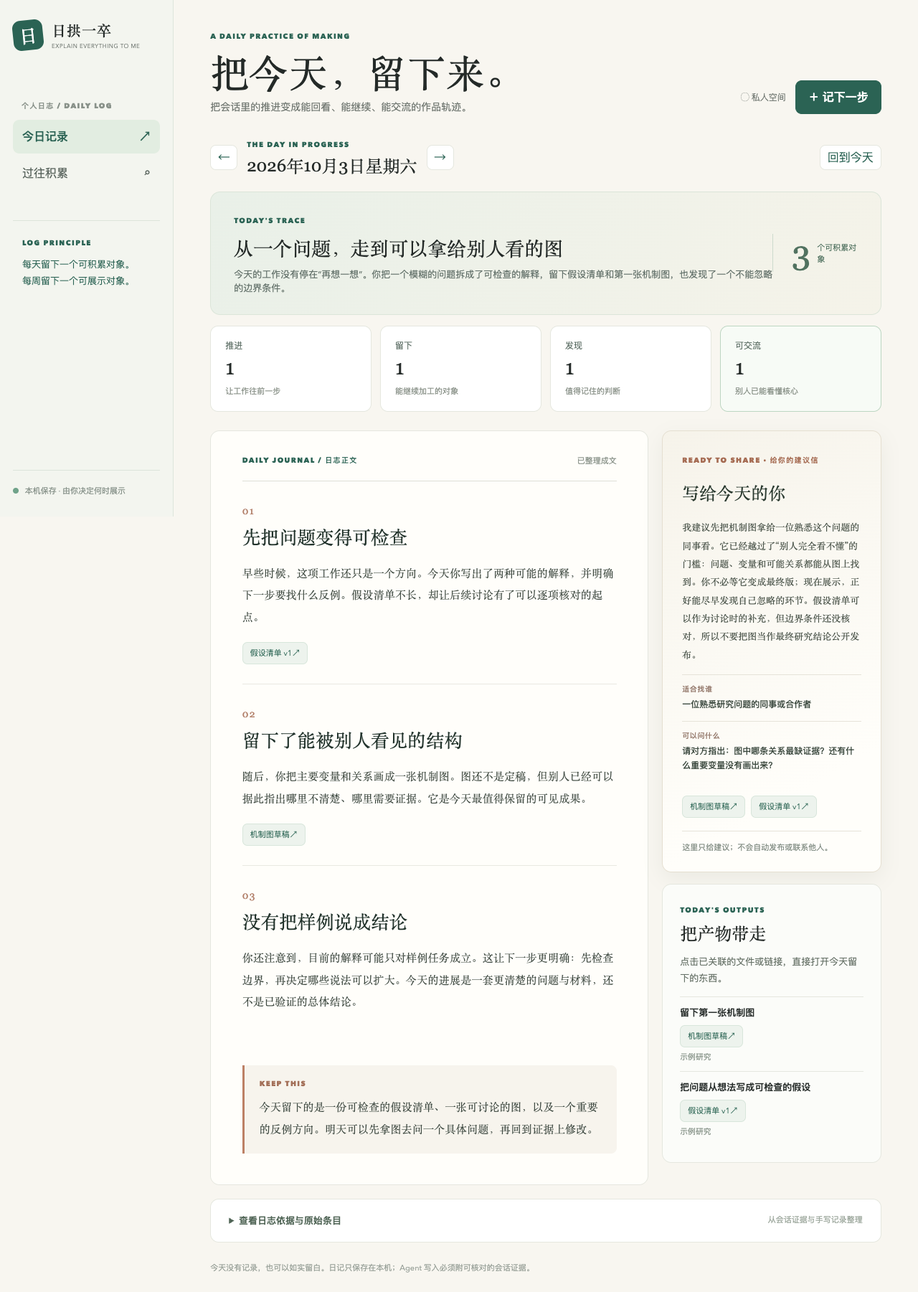
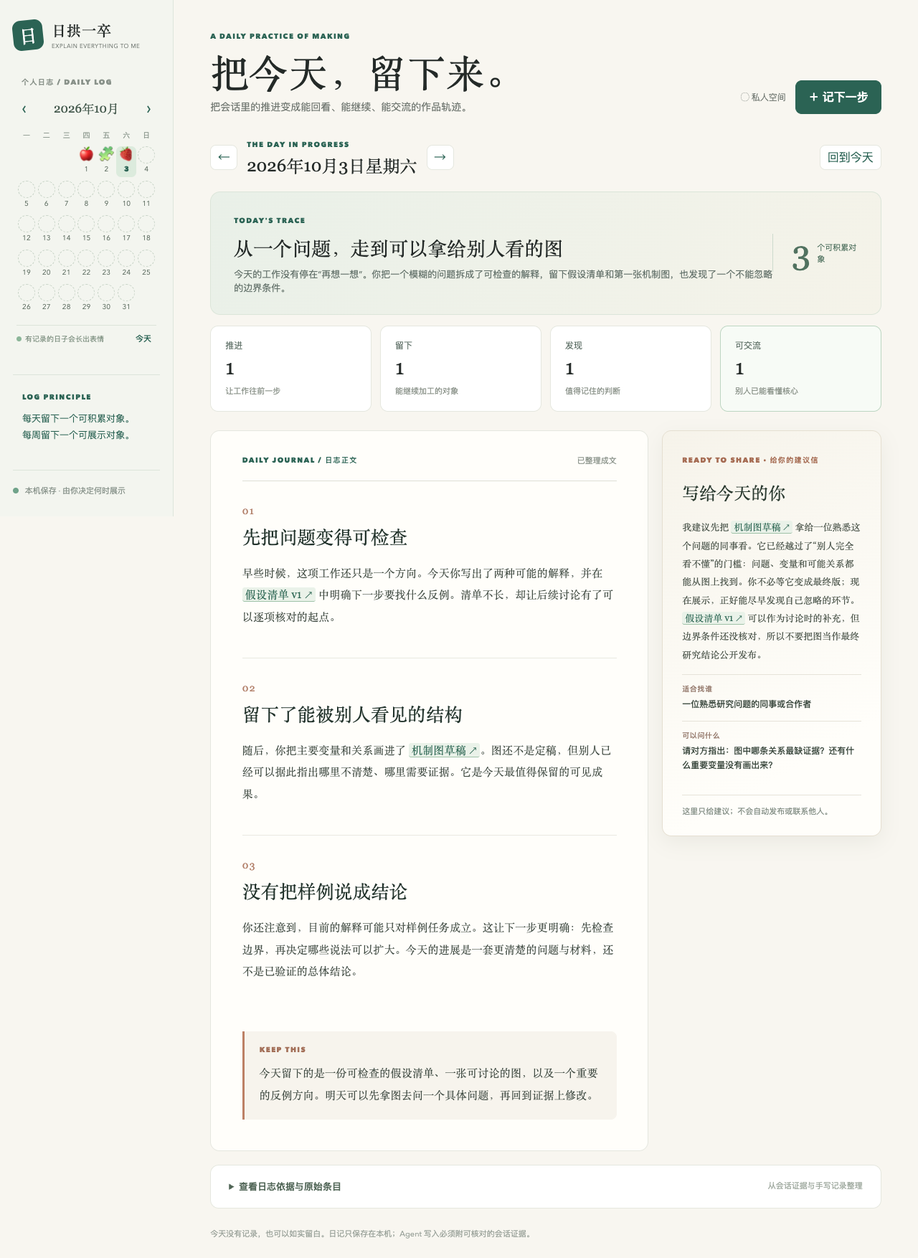
feat: add inline journal citations and emoji calendar

diff --git a/components/daily-journal/app.js b/components/daily-journal/app.js
@@ -1,7 +1,7 @@
 const $ = (selector) => document.querySelector(selector);
 const esc = (value) => String(value ?? "").replace(/[&<>"']/g, c => ({'&':'&amp;','<':'&lt;','>':'&gt;','"':'&quot;',"'":'&#39;'}[c]));
 const localDay = () => { const d=new Date(); return `${d.getFullYear()}-${String(d.getMonth()+1).padStart(2,'0')}-${String(d.getDate()).padStart(2,'0')}`; };
-const state = {data:null, date:localDay(), editing:null};
+const state = {data:null, date:localDay(), month:localDay().slice(0,7), editing:null};
 const labels = {progress:'推进',artifact:'留下',insight:'发现',share:'交流'};
 const readiness = {private:'还在加工',discussable:'可找人讨论',shared:'已经交流'};
 function toast(message){const node=$('#toast');node.textContent=message;node.style.display='block';clearTimeout(toast.timer);toast.timer=setTimeout(()=>node.style.display='none',3800);}
@@ -15,8 +15,38 @@ function artifactLink(entry, className='artifact-link') {
   const href=external?target:`/api/artifact/${encodeURIComponent(entry.id)}`;
   return `<a class="${className}" href="${esc(href)}" target="_blank" rel="noopener noreferrer">${label}<span aria-hidden="true"> ↗</span></a>`;
 }
-function paragraphs(value){return String(value||'').split(/\n\s*\n/).filter(Boolean).map(part=>`<p>${esc(part).replace(/\n/g,'<br>')}</p>`).join('');}
-function linkedEntries(ids, byId){return (ids||[]).map(id=>byId.get(id)).filter(Boolean).filter(entry=>entry.artifact).map(entry=>artifactLink(entry)).join('');}
+function inlineArtifact(entry){return artifactLink(entry,'inline-citation');}
+function paragraphs(value, byId, ids=[]){
+  const allowed=new Set(ids);
+  const cited=new Set([...String(value||'').matchAll(/\[\[artifact:([\w-]+)\]\]/g)].map(match=>match[1]));
+  const missing=ids.map(id=>byId?.get(id)).filter(entry=>entry?.artifact&&!cited.has(entry.id));
+  const parts=String(value||'').split(/\n\s*\n/).filter(Boolean);
+  return parts.map((part,index)=>{
+    let at=0, result='';
+    for(const match of part.matchAll(/\[\[artifact:([\w-]+)\]\]/g)){
+      result+=esc(part.slice(at,match.index)).replace(/\n/g,'<br>');
+      const entry=allowed.has(match[1])?byId?.get(match[1]):null;
+      result+=entry?.artifact?inlineArtifact(entry):esc(match[0]);
+      at=match.index+match[0].length;
+    }
+    result+=esc(part.slice(at)).replace(/\n/g,'<br>');
+    if(index===parts.length-1&&missing.length) result+=` <span class="legacy-citations">（参见 ${missing.map(inlineArtifact).join('、')}）</span>`;
+    return `<p>${result}</p>`;
+  }).join('');
+}
+const EMOJI=['🌱','🌿','🌻','🍀','🌸','🍎','🍋','🍓','🪻','🌼','🦋','🐝','⭐','✨','🪴','🍄','🌙','☀','🪺','🎈','🧩','📚','✏','🪁'];
+function dayEmoji(date){let hash=2166136261;for(const char of date){hash^=char.charCodeAt(0);hash=Math.imul(hash,16777619);}return EMOJI[(hash>>>0)%EMOJI.length];}
+function calendar(){
+  const [year,month]=state.month.split('-').map(Number), first=new Date(year,month-1,1), count=new Date(year,month,0).getDate();
+  const dates=new Set((state.data?.entries||[]).map(item=>item.date));
+  $('#calendar-month').textContent=first.toLocaleDateString('zh-CN',{year:'numeric',month:'long'});
+  const leading=(first.getDay()+6)%7;
+  $('#calendar-days').innerHTML=Array.from({length:leading},()=>'<span class="calendar-gap"></span>').join('')+Array.from({length:count},(_,index)=>{
+    const n=index+1, date=`${year}-${String(month).padStart(2,'0')}-${String(n).padStart(2,'0')}`, active=dates.has(date);
+    const classes=['calendar-day',active?'recorded':'empty-day',date===state.date?'selected':'',date===localDay()?'today':''].filter(Boolean).join(' ');
+    return `<button class="${classes}" data-date="${date}" aria-label="${date}${active?'，有记录':'，无记录'}" aria-pressed="${date===state.date}"><span class="day-icon" aria-hidden="true">${active?dayEmoji(date):''}</span><span class="day-num">${n}</span></button>`;
+  }).join('');
+}
 function render(){
   const d=new Date(`${state.date}T12:00:00`), items=entries(), byId=new Map(items.map(item=>[item.id,item]));
   const digest=state.data?.digests?.[state.date];
@@ -28,24 +58,24 @@ function render(){
   $('#coverage-text').textContent=digest?.lead||(items.length?'已有条目，但还没有经过原文核对的叙事摘要。':'写下一件小事，轨迹就从这里开始。');
   const stale=digest&&Object.entries(digest.entry_versions||{}).some(([id,version])=>byId.get(id)?.updated_at!==version);
   $('#digest-status').textContent=digest?(stale?'素材有变化 · 建议重写':'已整理成文'):'待撰写';
-  $('#digest-body').innerHTML=digest?`${(digest.sections||[]).map((section,index)=>`<section class="essay-section"><span class="section-number">${String(index+1).padStart(2,'0')}</span><h2>${esc(section.heading)}</h2>${paragraphs(section.body)}<div class="essay-links">${linkedEntries(section.entry_ids,byId)}</div></section>`).join('')}<div class="essay-closing"><span class="small-cap">KEEP THIS</span>${paragraphs(digest.closing)}</div>`:'<div class="empty-essay"><h2>这一天，还没有写成文章。</h2><p>条目只是材料。让 Agent 阅读当天会话、核对产物，再写出起因、转折、留下了什么和下一步。</p></div>';
+  $('#digest-body').innerHTML=digest?`${(digest.sections||[]).map((section,index)=>`<section class="essay-section"><span class="section-number">${String(index+1).padStart(2,'0')}</span><h2>${esc(section.heading)}</h2>${paragraphs(section.body,byId,section.entry_ids)}</section>`).join('')}<div class="essay-closing"><span class="small-cap">KEEP THIS</span>${paragraphs(digest.closing,byId)}</div>`:'<div class="empty-essay"><h2>这一天，还没有写成文章。</h2><p>条目只是材料。让 Agent 阅读当天会话、核对产物，再写出起因、转折、留下了什么和下一步。</p></div>';
   const letter=digest?.letter;
-  $('#letter-body').innerHTML=letter?`<h2>${esc(letter.salutation||'写给你的交流建议')}</h2><div class="letter-prose">${paragraphs(letter.body)}</div>${letter.recipient?`<div class="letter-detail"><span>适合找谁</span><strong>${esc(letter.recipient)}</strong></div>`:''}${letter.suggested_ask?`<div class="letter-detail"><span>可以问什么</span><strong>${esc(letter.suggested_ask)}</strong></div>`:''}<div class="letter-links">${linkedEntries(letter.entry_ids,byId)}</div><p class="letter-note">这里只给建议；不会自动发布或联系他人。</p>`:'<h2>先看清手里的东西</h2><p>当今日日志写好后，这里会给你一封具体的建议信：哪些成果值得展示，适合找谁，以及最好问什么。不会自动发送。</p>';
+  $('#letter-body').innerHTML=letter?`<h2>${esc(letter.salutation||'写给你的交流建议')}</h2><div class="letter-prose">${paragraphs(letter.body,byId,letter.entry_ids)}</div>${letter.recipient?`<div class="letter-detail"><span>适合找谁</span><strong>${esc(letter.recipient)}</strong></div>`:''}${letter.suggested_ask?`<div class="letter-detail"><span>可以问什么</span><strong>${esc(letter.suggested_ask)}</strong></div>`:''}<p class="letter-note">这里只给建议；不会自动发布或联系他人。</p>`:'<h2>先看清手里的东西</h2><p>当今日日志写好后，这里会给你一封具体的建议信：哪些成果值得展示，适合找谁，以及最好问什么。不会自动发送。</p>';
   $('#entry-list').innerHTML=items.length?items.map(x=>`<article class="entry"><span class="entry-kind ${esc(x.kind)}">${labels[x.kind]||'记录'}</span><div><h3><button data-id="${esc(x.id)}">${esc(x.title)}</button></h3>${x.detail?`<p>${esc(x.detail)}</p>`:''}<div class="entry-meta"><span>${esc(x.project||'未归类')}</span><span>${esc(readiness[x.readiness]||'')}</span>${x.artifact?artifactLink(x):''}${x.workrefs?.length?`<span>证据：${x.workrefs.map(esc).join(' · ')}</span>`:''}</div></div></article>`).join(''):'<div class="empty">还没有这一天的记录。</div>';
-  const artifacts=items.filter(x=>x.artifact);
-  $('#artifact-list').innerHTML=artifacts.length?artifacts.map(x=>`<div class="mini"><strong>${esc(x.title)}</strong><div>${artifactLink(x)}</div><small>${esc(x.project||'未归类')}</small></div>`).join(''):'<div class="empty">这一天还没有关联产物。</div>';
-  const dates=[...new Set((state.data?.entries||[]).map(x=>x.date))].sort().reverse();
-  $('#archive-days').innerHTML=dates.length?dates.map(date=>{const daily=state.data.entries.filter(x=>x.date===date);return `<button data-date="${esc(date)}"><strong>${esc(date)}</strong><span>${daily.length} 条记录 · ${daily.filter(x=>x.kind==='artifact').length} 个成果 · ${daily.filter(x=>x.readiness==='discussable'||x.readiness==='shared').length} 个可交流</span></button>`}).join(''):'<div class="empty">还没有过往记录。</div>';
+  calendar();
 }
 async function load(){try{const r=await fetch('/api/data',{cache:'no-store'});if(!r.ok)throw Error('读取日志失败');state.data=await r.json();render();}catch(e){toast(e.message);}}
 function edit(entry=null){state.editing=entry;$('#dialog-title').textContent=entry?'编辑这一步':'记下一步';const form=$('#entry-form');for(const field of ['date','kind','title','detail','project','artifact','artifact_target','readiness']) form.elements[field].value=entry?.[field]??({date:state.date,kind:'progress',readiness:'private'}[field]||'');$('#delete-entry').hidden=!entry;$('#editor').showModal();}
-async function mutate(payload){const r=await fetch('/api/action',{method:'POST',headers:{'Content-Type':'application/json'},body:JSON.stringify(payload)});const body=await r.json();if(!r.ok)throw Error(body.error||'保存失败');state.data=body;render();}
+async function mutate(payload){const r=await fetch('/api/action',{method:'POST',headers:{'Content-Type':'application/json'},body:JSON.stringify(payload)});const body=await r.json();if(!r.ok)throw Error(body.error||'保存失败');state.data=body;if(payload.action!=='delete'&&payload.date){state.date=payload.date;state.month=payload.date.slice(0,7);}render();}
 $('#add-entry').addEventListener('click',()=>edit());
 $('#entry-list').addEventListener('click',event=>{const b=event.target.closest('[data-id]');if(b)edit(state.data.entries.find(x=>x.id===b.dataset.id));});
 $('#entry-form').addEventListener('submit',async event=>{event.preventDefault();const values=Object.fromEntries(new FormData(event.target).entries());values.workrefs=state.editing?.workrefs||[];try{await mutate({action:state.editing?'update':'create',id:state.editing?.id,...values});$('#editor').close();toast('这一步已保存到本机');}catch(e){toast(e.message);}});
 $('#delete-entry').addEventListener('click',async()=>{if(!state.editing||!confirm(`删除“${state.editing.title}”？`))return;try{await mutate({action:'delete',id:state.editing.id});$('#editor').close();toast('记录已删除');}catch(e){toast(e.message);}});
 for(const id of ['close-dialog','cancel-entry']) $(`#${id}`).addEventListener('click',()=>$('#editor').close());
-function shift(days){const d=new Date(`${state.date}T12:00:00`);d.setDate(d.getDate()+days);state.date=`${d.getFullYear()}-${String(d.getMonth()+1).padStart(2,'0')}-${String(d.getDate()).padStart(2,'0')}`;render();}
-$('#archive-days').addEventListener('click',event=>{const button=event.target.closest('[data-date]');if(button){state.date=button.dataset.date;$('#archive-panel').hidden=true;render();}});
-$('#prev-day').addEventListener('click',()=>shift(-1));$('#next-day').addEventListener('click',()=>shift(1));$('#back-today').addEventListener('click',()=>{state.date=localDay();render()});$('#today-nav').addEventListener('click',()=>{state.date=localDay();render()});$('#archive-nav').addEventListener('click',()=>{$('#archive-panel').hidden=!$('#archive-panel').hidden;$('#archive-panel').scrollIntoView({behavior:'smooth',block:'start'});});
+function selectDay(date){state.date=date;state.month=date.slice(0,7);render();}
+function shift(days){const d=new Date(`${state.date}T12:00:00`);d.setDate(d.getDate()+days);selectDay(`${d.getFullYear()}-${String(d.getMonth()+1).padStart(2,'0')}-${String(d.getDate()).padStart(2,'0')}`);}
+function shiftMonth(delta){const [year,month]=state.month.split('-').map(Number), next=new Date(year,month-1+delta,1);state.month=`${next.getFullYear()}-${String(next.getMonth()+1).padStart(2,'0')}`;calendar();}
+$('#calendar-days').addEventListener('click',event=>{const button=event.target.closest('[data-date]');if(button)selectDay(button.dataset.date);});
+$('#calendar-prev').addEventListener('click',()=>shiftMonth(-1));$('#calendar-next').addEventListener('click',()=>shiftMonth(1));$('#calendar-today').addEventListener('click',()=>selectDay(localDay()));
+$('#prev-day').addEventListener('click',()=>shift(-1));$('#next-day').addEventListener('click',()=>shift(1));$('#back-today').addEventListener('click',()=>selectDay(localDay()));
 load();

diff --git a/components/daily-journal/index.html b/components/daily-journal/index.html
@@ -9,18 +9,17 @@
   <aside class="side">
     <div class="identity"><span class="mark">日</span><div><strong>日拱一卒</strong><small>EXPLAIN EVERYTHING TO ME</small></div></div>
     <div class="side-label">个人日志 / DAILY LOG</div>
-    <nav aria-label="日期"><button id="today-nav" class="nav active">今日记录 <span>↗</span></button><button id="archive-nav" class="nav">过往积累 <span>⌕</span></button></nav>
+    <section class="calendar" aria-label="日志日历"><div class="calendar-head"><button id="calendar-prev" aria-label="上个月">‹</button><strong id="calendar-month"></strong><button id="calendar-next" aria-label="下个月">›</button></div><div class="calendar-weekdays" aria-hidden="true"><span>一</span><span>二</span><span>三</span><span>四</span><span>五</span><span>六</span><span>日</span></div><div id="calendar-days" class="calendar-days"></div><div class="calendar-foot"><span><i class="calendar-legend"></i>有记录的日子会长出表情</span><button id="calendar-today">今天</button></div></section>
     <div class="side-note"><span class="small-cap">LOG PRINCIPLE</span><p>每天留下一个可积累对象。<br>每周留下一个可展示对象。</p></div>
     <div class="side-bottom"><span class="status-dot"></span> 本机保存 · 由你决定何时展示</div>
   </aside>
   <main>
     <header class="top"><div><span class="eyebrow">A DAILY PRACTICE OF MAKING</span><h1>把今天，留下来。</h1><p>把会话里的推进变成能回看、能继续、能交流的作品轨迹。</p></div><div class="top-actions"><span class="privacy">◌ 私人空间</span><button id="add-entry" class="primary">＋ 记下一步</button></div></header>
-    <section id="archive-panel" class="archive-panel" hidden><div class="section-head"><div><span class="small-cap">THE LONG ARC</span><h2>过往积累</h2></div><span>点击日期，回看留下的对象</span></div><div id="archive-days"></div></section>
     <section class="datebar"><div><button id="prev-day" aria-label="前一天">←</button><div><span class="small-cap">THE DAY IN PROGRESS</span><h2 id="date-title"></h2></div><button id="next-day" aria-label="后一天">→</button></div><button id="back-today">回到今天</button></section>
     <section class="headline" aria-label="当日概况"><div><span class="small-cap">TODAY'S TRACE</span><strong id="headline-text">今天还没有记录。</strong><p id="coverage-text">写下一件小事，轨迹就从这里开始。</p></div><div class="day-count"><b id="count">0</b><span>个可积累对象</span></div></section>
     <section class="metrics"><article><span>推进</span><strong id="count-progress">0</strong><small>让工作往前一步</small></article><article><span>留下</span><strong id="count-artifact">0</strong><small>能继续加工的对象</small></article><article><span>发现</span><strong id="count-insight">0</strong><small>值得记住的判断</small></article><article class="accent"><span>可交流</span><strong id="count-discussable">0</strong><small>别人已能看懂核心</small></article></section>
     <div class="layout"><article class="feed journal-article"><div class="article-kicker"><span class="small-cap">DAILY JOURNAL / 日志正文</span><span id="digest-status"></span></div><div id="digest-body"></div></article>
-    <aside class="reflection"><section class="reflection-card letter-card"><span class="small-cap">READY TO SHARE · 给你的建议信</span><div id="letter-body"></div></section><section class="reflection-card quiet"><span class="small-cap">TODAY'S OUTPUTS</span><h2>把产物带走</h2><p>点击已关联的文件或链接，直接打开今天留下的东西。</p><div id="artifact-list"></div></section></aside></div>
+    <aside class="reflection"><section class="reflection-card letter-card"><span class="small-cap">READY TO SHARE · 给你的建议信</span><div id="letter-body"></div></section></aside></div>
     <details class="source-drawer"><summary>查看日志依据与原始条目 <span id="source-note">从会话证据与手写记录整理</span></summary><div id="entry-list"></div></details>
     <footer>今天没有记录，也可以如实留白。日记只保存在本机；Agent 写入必须附可核对的会话证据。</footer>
   </main>

diff --git a/components/daily-journal/styles.css b/components/daily-journal/styles.css
@@ -38,3 +38,34 @@
 .source-drawer[open] summary{border-bottom:1px solid var(--line)}
 @media(max-width:620px){.journal-article{min-height:0;padding:24px 21px 29px}.essay-section{padding:25px 0}.essay-section p,.essay-closing p{font-size:14px}.source-drawer summary span{display:block;float:none;margin:5px 0 0}}
 @media(max-width:620px){.headline{display:block}.day-count{border-left:0;border-top:1px solid #ccdacd;margin-top:17px;padding:12px 0 0;display:flex;justify-content:flex-start;text-align:left}.day-count b{display:inline;line-height:1}.day-count span{white-space:nowrap}}
+
+.side .identity{margin-bottom:37px}
+.calendar{padding:0 5px;color:#43584c}
+.calendar-head{display:flex;align-items:center;justify-content:space-between;margin:3px 0 17px}
+.calendar-head strong{font-family:Georgia,"Noto Serif CJK SC",serif;font-size:17px;font-weight:500;white-space:nowrap}
+.calendar-head button,.calendar-foot button{border:0;background:transparent;color:var(--green);font-size:23px;line-height:1;padding:2px 7px;border-radius:7px}
+.calendar-head button:hover,.calendar-foot button:hover{background:#e2ede1}
+.calendar-weekdays,.calendar-days{display:grid;grid-template-columns:repeat(7,minmax(0,1fr));text-align:center}
+.calendar-weekdays{color:#8c988e;font-size:10px;padding:0 0 8px}
+.calendar-days{row-gap:5px}
+.calendar-day{position:relative;min-width:0;min-height:43px;border:0;background:transparent;color:#647367;display:flex;flex-direction:column;align-items:center;justify-content:flex-start;padding:0;border-radius:7px}
+.calendar-day:hover{background:#e6eee5}
+.calendar-day.selected{background:#dcebdd;color:#285d4c}
+.calendar-day .day-icon{width:24px;height:24px;border-radius:50%;display:grid;place-items:center;font-size:18px;line-height:1}
+.calendar-day.empty-day .day-icon{border:1.5px dashed #c7d3c6}
+.calendar-day.recorded .day-icon{animation:emoji-bloom .5s cubic-bezier(.2,1.5,.45,1) both}
+.calendar-day .day-num{font-size:10px;line-height:1.2;margin-top:2px}
+.calendar-day.today .day-num{font-weight:800;color:var(--green)}
+.calendar-day.today:not(.selected) .day-num{text-decoration:underline;text-underline-offset:2px}
+.calendar-foot{border-top:1px solid #dce4da;margin-top:14px;padding-top:11px;display:flex;align-items:center;justify-content:space-between;gap:5px}
+.calendar-foot span{font-size:10px;color:#788b7b;line-height:1.4}
+.calendar-legend{display:inline-block;width:7px;height:7px;border-radius:50%;background:#8cb699;margin-right:5px}
+.calendar-foot button{font-size:11px;font-weight:700;white-space:nowrap}
+@keyframes emoji-bloom{from{opacity:0;transform:scale(.2) rotate(-25deg)}to{opacity:1;transform:scale(1) rotate(0)}}
+.essay-section .inline-citation,.letter-prose .inline-citation{display:inline;text-decoration:none;background:#eaf2e9;color:#28634f;border:0;border-bottom:1px solid #9fc2a8;border-radius:3px;padding:1px 4px;white-space:normal;overflow-wrap:anywhere;font:inherit}
+.essay-section .inline-citation:hover,.letter-prose .inline-citation:hover{background:#d5e8d8;text-decoration:underline}
+.inline-citation span{font-family:Arial,sans-serif;font-size:.78em}
+.legacy-citations{color:#64776a}
+@media(max-width:1000px){.calendar{max-width:360px}}
+@media(max-width:620px){.side .identity{margin-bottom:15px}.side-label{display:block;padding:0 5px 10px}.calendar{max-width:none}.calendar-day{min-height:41px}.calendar-foot{margin-bottom:4px}}
+@media(prefers-reduced-motion:reduce){.calendar-day.recorded .day-icon{animation:none}}

diff --git a/components/daily-journal/journal.py b/components/daily-journal/journal.py
@@ -8,6 +8,7 @@ import fcntl
 import json
 import mimetypes
 import os
+import re
 import tempfile
 import uuid
 from datetime import date, datetime, timezone
@@ -184,6 +185,11 @@ def compose(data, payload):
             raise ValueError("Digest references must point to entries from this date")
         return list(dict.fromkeys(value))
 
+    def require_inline_artifacts(body, refs):
+        markers = set(re.findall(r"\[\[artifact:([\w-]+)\]\]", body))
+        if any(todays[ref].get("artifact") and ref not in markers for ref in refs):
+            raise ValueError("Artifact references must appear inside the prose")
+
     rendered = []
     referenced = set()
     for section in sections:
@@ -192,9 +198,11 @@ def compose(data, payload):
         refs = entry_ids(section.get("entry_ids", []))
         if not refs:
             raise ValueError("Each section needs at least one journal entry")
+        body = clean(section.get("body", ""), 4000)
+        require_inline_artifacts(body, refs)
         referenced.update(refs)
         rendered.append({"heading": clean(section.get("heading", ""), 140),
-                         "body": clean(section.get("body", ""), 4000), "entry_ids": refs})
+                         "body": body, "entry_ids": refs})
         if not rendered[-1]["heading"] or not rendered[-1]["body"]:
             raise ValueError("Digest heading and body are required")
     letter = payload.get("letter")
@@ -203,12 +211,14 @@ def compose(data, payload):
     letter_refs = entry_ids(letter.get("entry_ids", []))
     if not any(todays[ref].get("artifact") for ref in letter_refs):
         raise ValueError("Ready to Share must cite at least one artifact")
+    letter_body = clean(letter.get("body", ""), 3000)
+    require_inline_artifacts(letter_body, letter_refs)
     referenced.update(letter_refs)
     result = {"date": report_date, "title": clean(payload.get("title", ""), 180),
               "lead": clean(payload.get("lead", ""), 1500), "sections": rendered,
               "closing": clean(payload.get("closing", ""), 1500),
               "letter": {"salutation": clean(letter.get("salutation", ""), 120),
-                         "body": clean(letter.get("body", ""), 3000),
+                         "body": letter_body,
                          "recipient": clean(letter.get("recipient", ""), 240),
                          "suggested_ask": clean(letter.get("suggested_ask", ""), 700),
                          "entry_ids": letter_refs},

diff --git a/tests/test_daily_journal.py b/tests/test_daily_journal.py
@@ -69,15 +69,19 @@ class JournalTest(unittest.TestCase):
         self.assertEqual(item['updated_at'], initial_version)
         digest = {'date': '2026-10-03', 'title': 'A day with a visible result',
                   'lead': 'The diagram made the question discussable.',
-                  'sections': [{'heading': 'A first structure', 'body': 'The diagram connects the main ideas.',
+                  'sections': [{'heading': 'A first structure', 'body': f'The diagram [[artifact:{item["id"]}]] connects the main ideas.',
                                 'entry_ids': [item['id']]}],
                   'closing': 'Check one boundary next.',
-                  'letter': {'salutation': 'Dear researcher', 'body': 'Show the diagram to a colleague.',
+                  'letter': {'salutation': 'Dear researcher', 'body': f'Show [[artifact:{item["id"]}]] to a colleague.',
                              'recipient': 'A colleague', 'suggested_ask': 'What is missing?',
                              'entry_ids': [item['id']]}}
         result = journal.compose(data, digest)
         self.assertEqual(result['entry_versions'][item['id']], item['updated_at'])
         self.assertEqual(data['digests']['2026-10-03']['letter']['entry_ids'], [item['id']])
+        digest['sections'][0]['body'] = 'The diagram connects the main ideas.'
+        with self.assertRaisesRegex(ValueError, 'inside the prose'):
+            journal.compose(data, digest)
+        digest['sections'][0]['body'] = f'The diagram [[artifact:{item["id"]}]] connects the main ideas.'
         digest['sections'][0]['entry_ids'] = ['not-an-entry']
         with self.assertRaisesRegex(ValueError, 'same|date'):
             journal.compose(data, digest)

diff --git a/components/daily-journal/DESIGN.md b/components/daily-journal/DESIGN.md
@@ -2,7 +2,7 @@
 
 ## 目的
 
-把一天的 Agent 对话和用户手写记录，整理成一篇可回看的日志。首页先讲今天在做什么、出现了什么转折、留下哪些对象、还有什么未完成；在相应段落旁直接链接产物。原始条目折叠在正文之后，供核对。右侧的 **READY TO SHARE** 是基于今日产物写给用户的个性化建议信，说明适合展示什么、找谁交流、可以问什么；它不触发发布、通知或联系他人。
+把一天的 Agent 对话和用户手写记录，整理成一篇可回看的日志。首页先讲今天在做什么、出现了什么转折、留下哪些对象、还有什么未完成；文件名作为正文中的可点击引用，读到相关判断时就能打开产物。左栏月历用虚线圆表示空白日期，有记录的日期会长出一个稳定的、按日期变化的 emoji。原始条目折叠在正文之后，供核对。右侧的 **READY TO SHARE** 是基于今日产物写给用户的个性化建议信，说明适合展示什么、找谁交流、可以问什么；它不触发发布、通知或联系他人。
 
 ## 设计规则
 
@@ -15,6 +15,7 @@
 - 写摘要前先理解当天各工作线的目标与性质，再围绕起因、推进、转折、产物、局限写成连贯短文。正文不能只是把条目改写成清单；每节必须能追溯到当天条目。没有核对到的事实留白。
 - 产物需填 `artifact` 名称和 `artifact_target`：可用 HTTPS 链接或本机绝对路径。网页中的本机链接会通过仅监听 localhost 的预览端点打开；超过 25 MB 的文件不在网页预览。路径也可在文件管理器中打开。页面不扫描磁盘查找产物。
 - READY TO SHARE 必须引用至少一个产物，按用户的工作目标和产物成熟度写私人建议。推荐“可讨论”并不等于已经发表，也不等于用户已决定分享。
+- 日志正文和建议信引用产物时，在句中写 `[[artifact:<条目 ID>]]`。页面将标记替换为带文件名的可点击链接；同节 `entry_ids` 仍保留可追溯关系。新写入的摘要若把有产物的条目列进 `entry_ids`，却不在正文里引用它，会被拒绝。旧摘要没有句中标记时，会在段末补一条内联“参见”链接。
 
 ## 当前原型
 
@@ -69,16 +70,16 @@ python3 components/daily-journal/journal.py import --input /path/to/events.json
 python3 components/daily-journal/journal.py compose --input /path/to/digest.json
 ```
 
-`digest.json` 的每个 `entry_ids` 必须指向同一天的已有条目。正文分节引用条目；建议信至少引用一个有产物名称的条目。页面会把这些条目关联的文件放在相应段落和信末。若来源条目后来被编辑或删除，页面提示重新撰写。
+`digest.json` 的每个 `entry_ids` 必须指向同一天的已有条目。正文分节引用条目；有产物的条目还必须用 `[[artifact:<条目 ID>]]` 在对应句中引用文件。建议信至少引用一个产物，并把它写进信的正文。若来源条目后来被编辑或删除，页面提示重新撰写。
 
 ```json
 {
   "date": "2026-10-03",
   "title": "从问题走到第一张可讨论的图",
   "lead": "今天把一个想法写成可检查的假设，并留下图稿。",
-  "sections": [{"heading": "先把问题变得可检查", "body": "先列出两种解释，再明确反例方向。", "entry_ids": ["sample-01"]}],
+  "sections": [{"heading": "先把问题变得可检查", "body": "先列出两种解释，再把反例方向写进 [[artifact:sample-01]]。", "entry_ids": ["sample-01"]}],
   "closing": "下一步核对边界条件。",
-  "letter": {"salutation": "写给今天的你", "body": "建议带着图稿找合作者讨论。", "recipient": "熟悉问题的合作者", "suggested_ask": "哪条关系最缺证据？", "entry_ids": ["sample-02"]}
+  "letter": {"salutation": "写给今天的你", "body": "建议带着 [[artifact:sample-02]] 找合作者讨论。", "recipient": "熟悉问题的合作者", "suggested_ask": "哪条关系最缺证据？", "entry_ids": ["sample-02"]}
 }
 ```
 

diff --git a/README.md b/README.md
@@ -1,6 +1,6 @@
 # explain-everything-to-me
 
-当前版本：**0.8.4**
+当前版本：**0.8.5**
 
 **问一句：我的 Agents 最近做了什么？**
 
@@ -147,7 +147,7 @@ python3 components/gantt/gantt.py seed --input components/gantt/example.json
 
 ## 设计预览：日拱一卒每日日志
 
-正在设计的 [每日日志 dashboard](components/daily-journal/DESIGN.md) 会把一天的 Agent 对话和手写记录整理成一篇有起因、进展、转折和余留问题的日志。相关段落直接链接当天的文件或网页产物，点击即可查看；原始条目折叠在正文下，供回溯证据。**READY TO SHARE** 则是一封根据产物成熟度写给你的私人建议信：推荐展示什么、找谁交流、问什么具体问题。它不会代你发布或联系他人。
+正在设计的 [每日日志 dashboard](components/daily-journal/DESIGN.md) 会把一天的 Agent 对话和手写记录整理成一篇有起因、进展、转折和余留问题的日志。文件名直接作为正文中的引用，点击即可打开对应产物；左栏月历以虚线圆标出空白日期，有记录的日子会长出一个 emoji。原始条目折叠在正文下，供回溯证据。**READY TO SHARE** 则是一封根据产物成熟度写给你的私人建议信：推荐展示什么、找谁交流、问什么具体问题。它不会代你发布或联系他人。
 
 当前是**本地原型**：已有带 WorkRef 的条目导入、结构化日志与建议信写入、产物链接和按日回看；尚未接入 Skill 的自动调用，也没有每日定时扫描。安装器暂不将它列为可选组件。下方截图只使用虚构示例数据。
 
